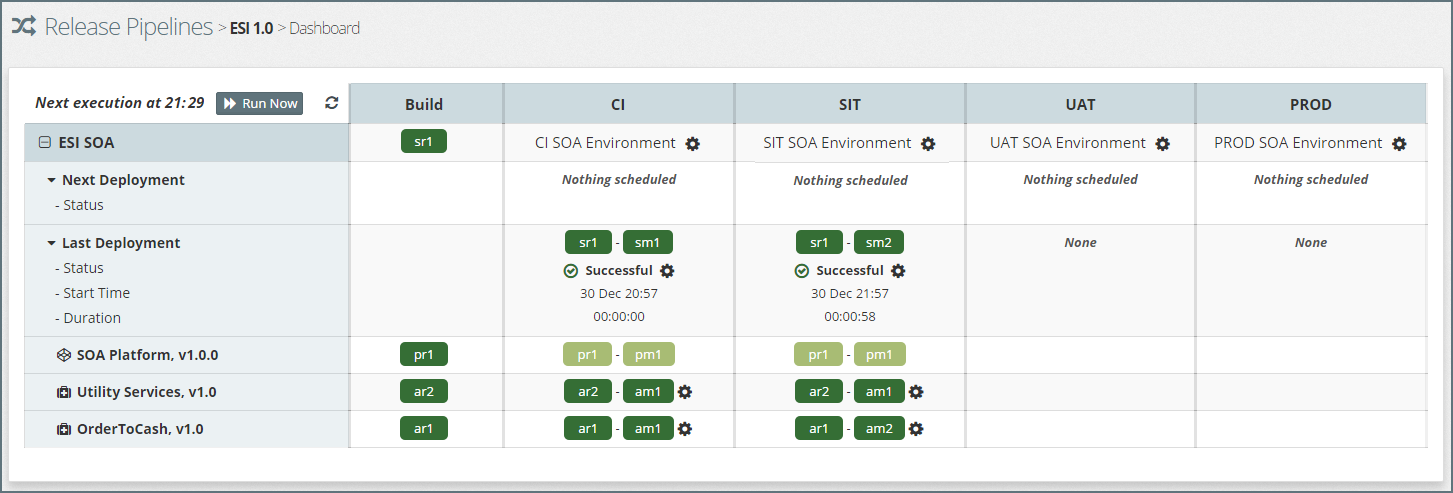
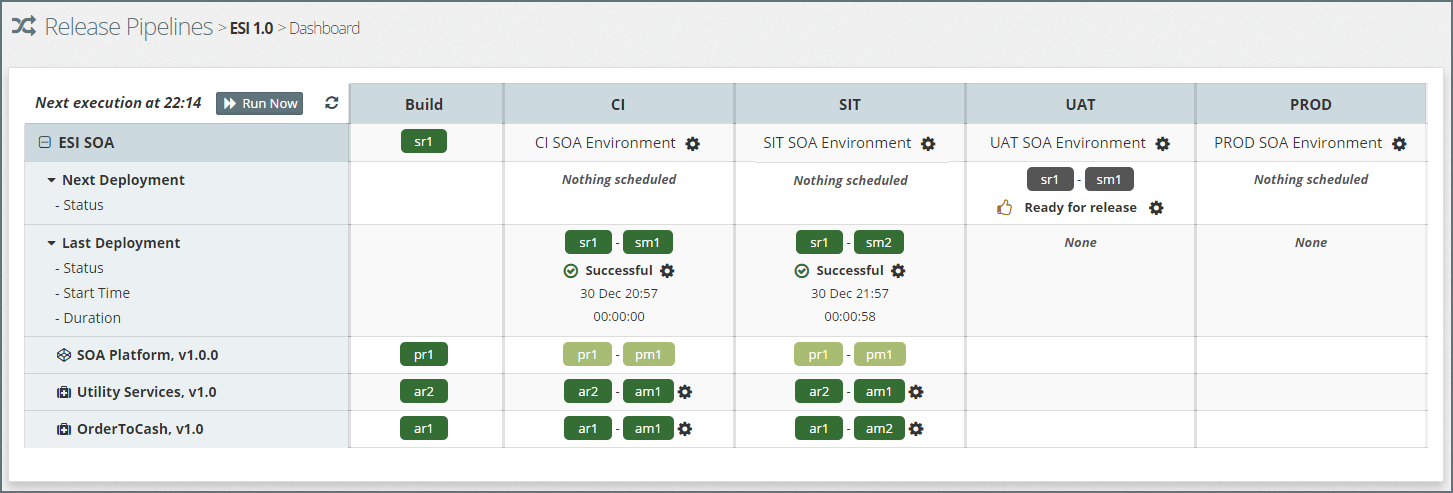
Updates part7/7.4.pipelineDashboard/7.4.0.pipelineDashboard.md
Auto commit by GitBook Editor

Changed region(s): [[0.6813, 0.3347, 0.8052, 0.4564], [0.0929, 0.1826, 0.1549, 0.2434]]

diff --git a/part7/7.4.pipelineDashboard/7.4.0.pipelineDashboard.md b/part7/7.4.pipelineDashboard/7.4.0.pipelineDashboard.md
@@ -135,6 +135,8 @@ Select the option to `Deploy Release`, ensuring the latest Stream Model is selec
 
 From this we can see that the Stream Revision has been succesfully deployed, as that the Application Model revision and the corresponding Stream Revision has been also been incremented to reflect the change at the model level.
 
+We can also see that the Stream Revision is also available for deployment to the UAT Stage.
+
 
 
 
